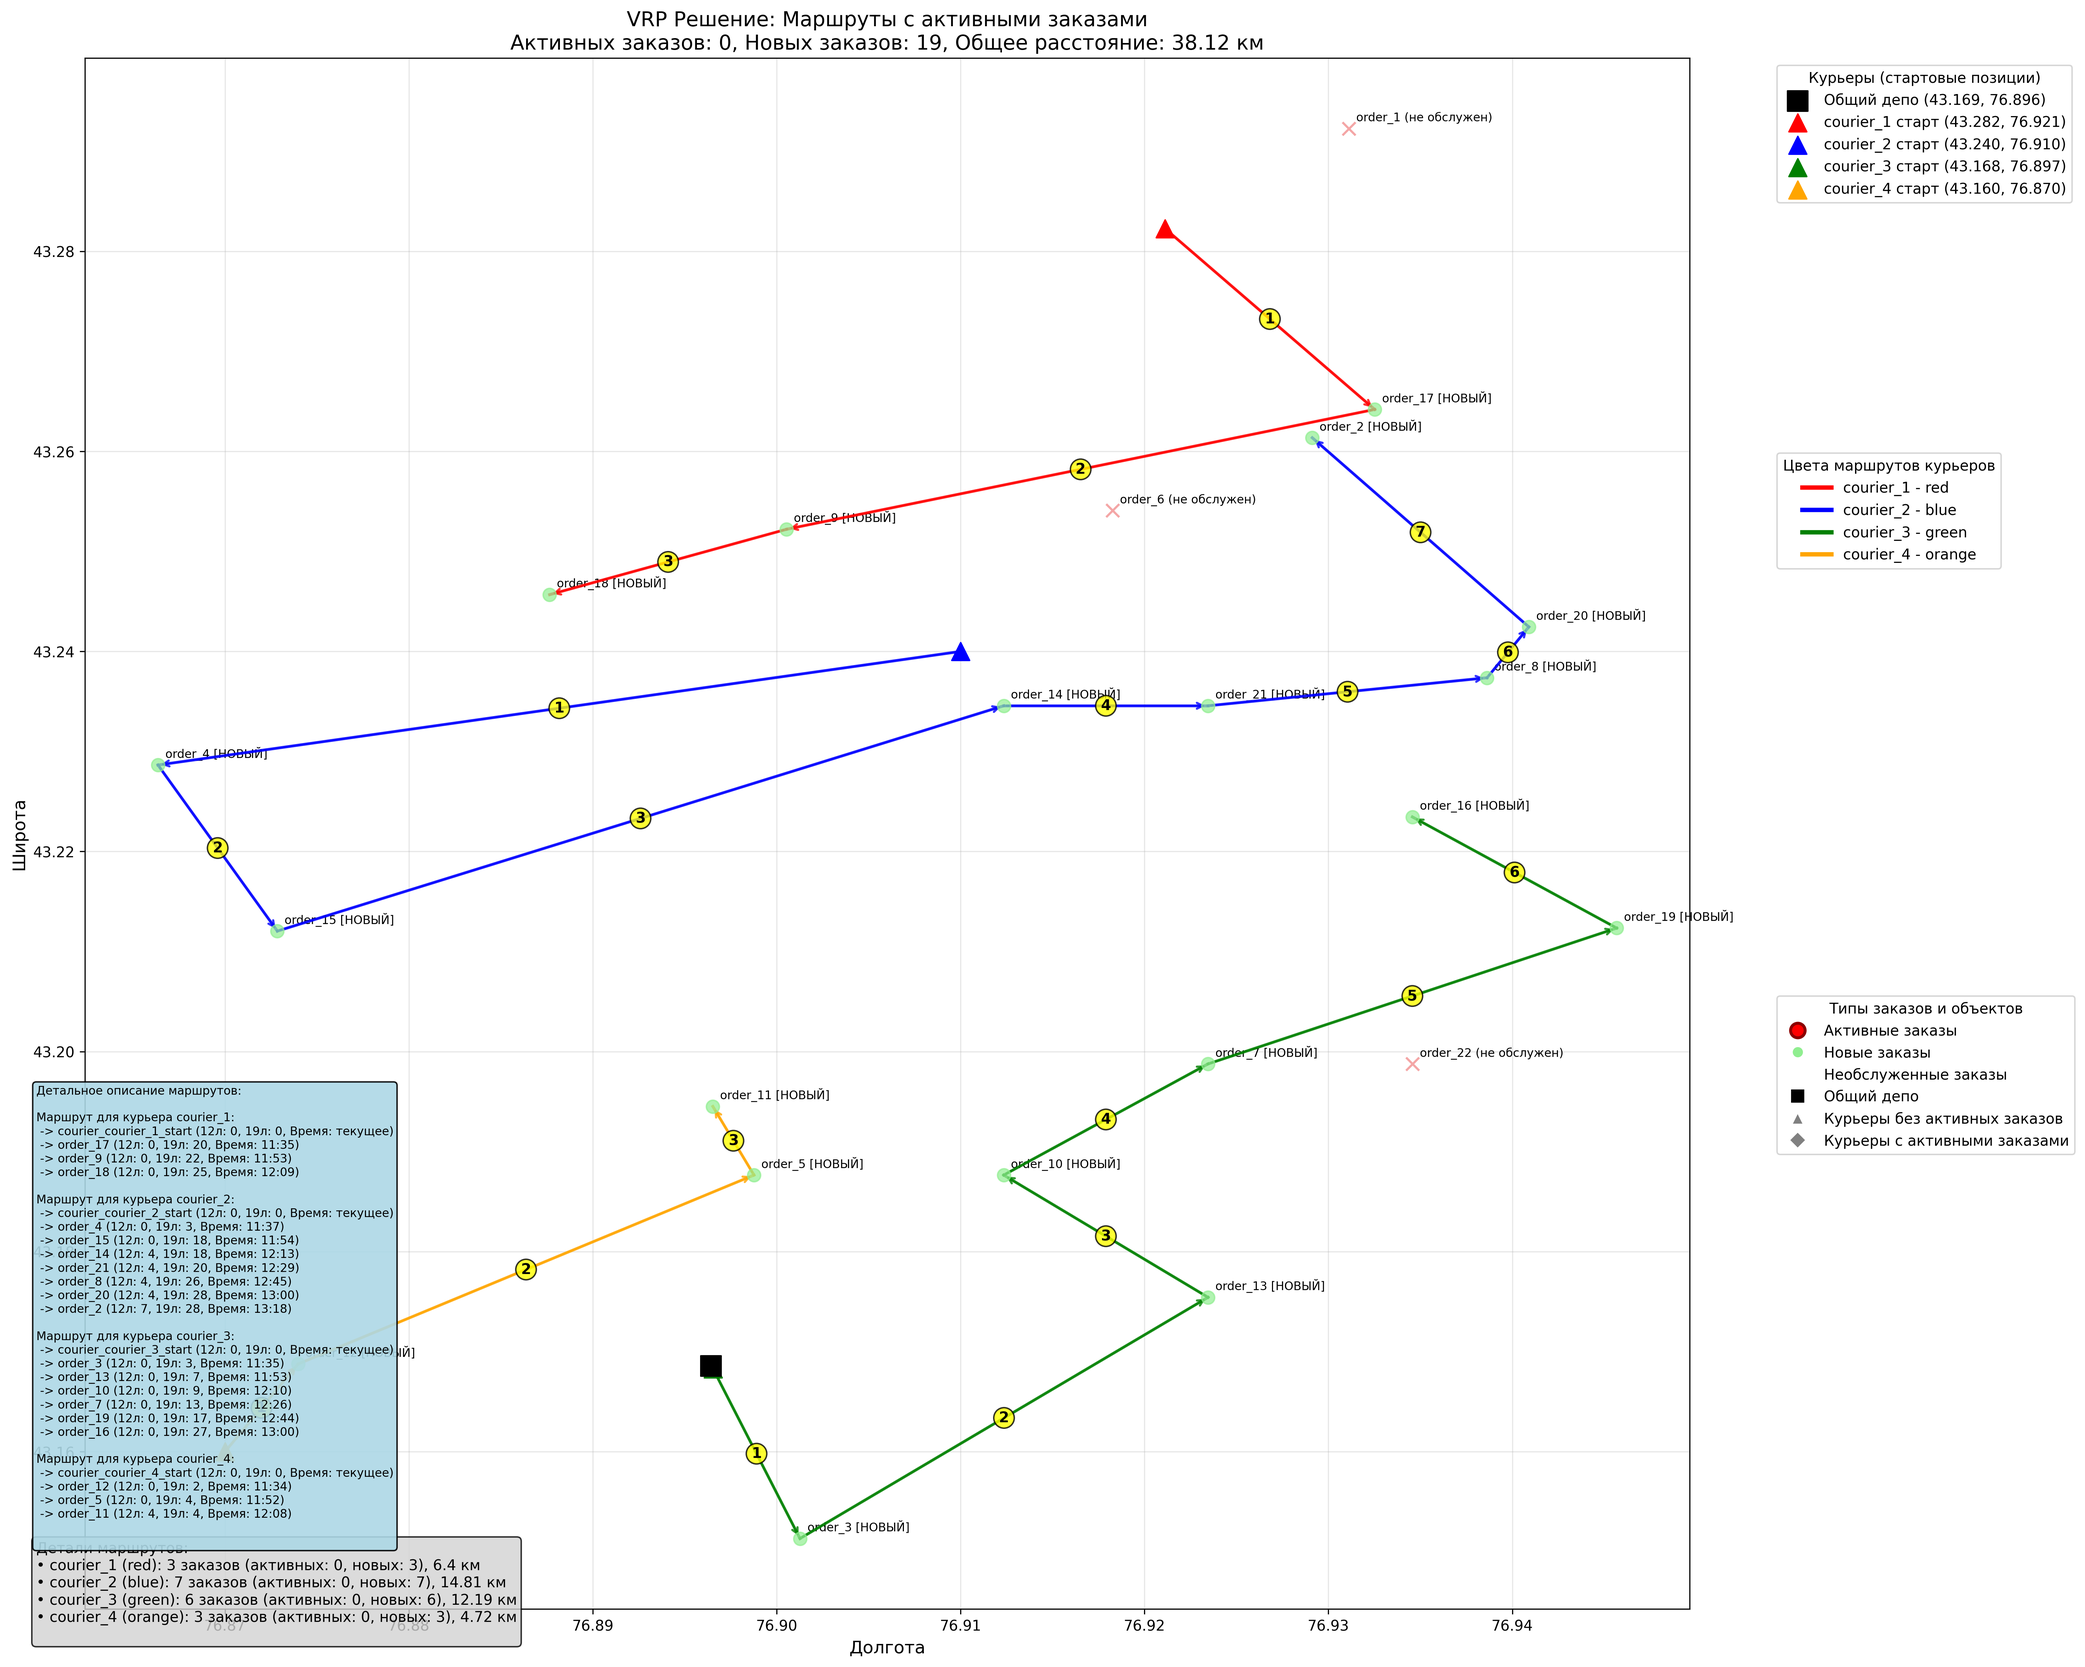
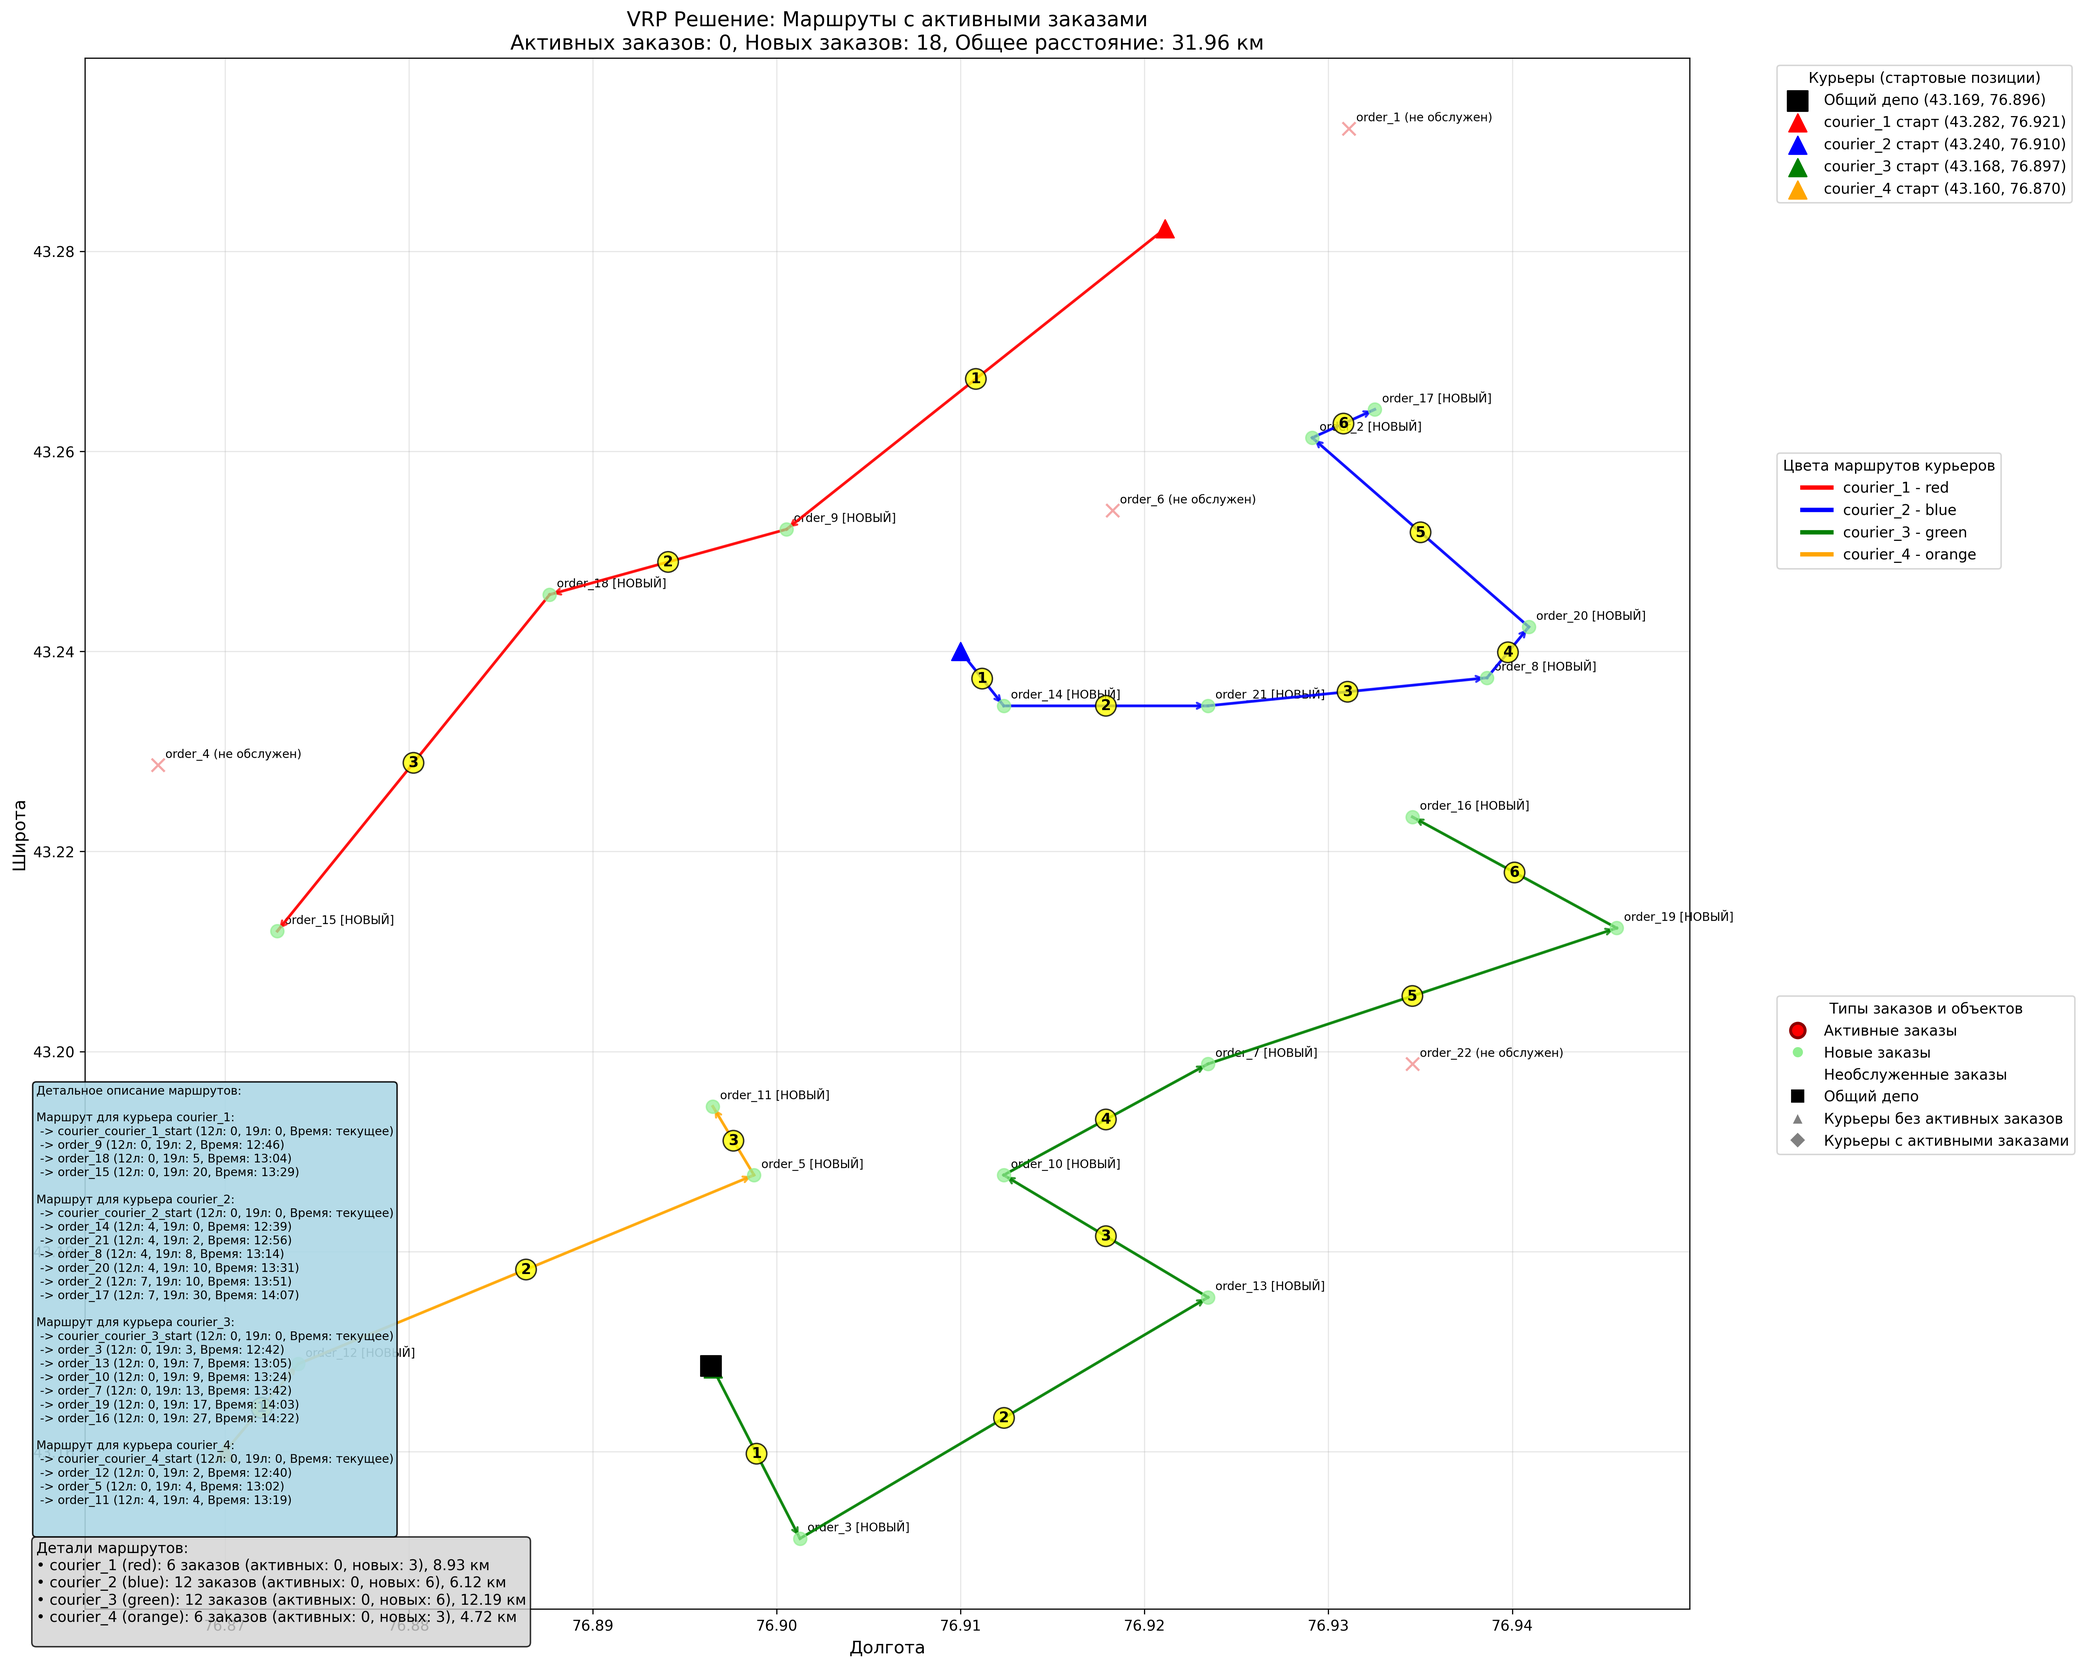
22.07.2025 4

diff --git a/orTools.js b/orTools.js
@@ -500,6 +500,8 @@ export default async function orTools() {
     const today = new Date();
     const todayString = getDateAlmaty(today);
 
+    const allOrders = await Order.find({forAggregator: true, "date.d": todayString, status: {$nin: ["delivered", "cancelled"]}}).populate("client")
+
     const activeOrders = await Order.find({"date.d": todayString, forAggregator: true, status: "awaitingOrder"}).populate("client")
     
     console.log(`📊 Найдено заказов для распределения: ${activeOrders.length}`);
@@ -719,8 +721,21 @@ export default async function orTools() {
         return;
     }
 
+    for (const courier of couriers) {
+        const activeOrder = courier.order;
+        if (activeOrder && activeOrder.orderId) {
+            const alreadyIncluded = orders.find(o => o.id === activeOrder.orderId);
+            if (!alreadyIncluded) {
+                const fullOrder = allOrders.find(o => o.id === activeOrder.orderId);
+                if (fullOrder) {
+                    orders.push(fullOrder);
+                }
+            }
+        }
+    }
+
     try {
-        const visualizeResult = await runPythonVisualize(couriers, orders, result);
+        const visualizeResult = await runPythonVisualize(couriers, allOrders, result);
         console.log("Результат визуализации:", visualizeResult);
     } catch (error) {
         console.error("Ошибка визуализации:", error);

diff --git a/orToolslocal.js b/orToolslocal.js
@@ -601,8 +601,21 @@ export default async function orTools() {
         return;
     }
 
+    for (const courier of couriers) {
+        const activeOrder = courier.order;
+        if (activeOrder && activeOrder.orderId) {
+            const alreadyIncluded = orders.find(o => o.id === activeOrder.orderId);
+            if (!alreadyIncluded) {
+                const fullOrder = allOrders.find(o => o.id === activeOrder.orderId);
+                if (fullOrder) {
+                    orders.push(fullOrder);
+                }
+            }
+        }
+    }
+
     try {
-        const visualizeResult = await runPythonVisualize(couriers, orders, result);
+        const visualizeResult = await runPythonVisualize(couriers, allOrders, result);
         console.log("Результат визуализации:", visualizeResult);
     } catch (error) {
         console.error("Ошибка визуализации:", error);

diff --git a/orTools/test.py b/orTools/test.py
@@ -177,25 +177,24 @@ def solve_vrp_no_depot_time(couriers, orders):
     start_nodes = []  
     order_location_indices = [] 
 
-    # 1. Добавляем начальные точки курьеров
-    for i, courier in enumerate(couriers):
-        if courier['order']:
-            # Если есть активный заказ, начальная точка - это место активного заказа
-            active_order_data = {
-                'id': f'active_order_{courier["id"]}',
-                'lat': courier['order']['lat'],
-                'lon': courier['order']['lon'],
-                'bottles_12': courier['order'].get('bottles_12', 0),
-                'bottles_19': courier['order'].get('bottles_19', 0),
+    # 1. Добавляем стартовые точки курьеров
+    for courier in couriers:
+        # Если у курьера есть активный заказ, используем его координаты
+        if courier.get('order'):
+            active_order = courier['order']
+            all_locations.append({
+                'id': f"active_order_{courier['id']}",
+                'lat': active_order['lat'],
+                'lon': active_order['lon'],
+                'bottles_12': 0,
+                'bottles_19': 0,
                 'is_active_order': True,
                 'courier_id': courier['id']
-            }
-            all_locations.append(active_order_data)
-            start_nodes.append(len(all_locations) - 1)
+            })
         else:
-            # Если активного заказа нет, начальная точка - текущее местоположение курьера
+            # Иначе используем текущие координаты курьера
             all_locations.append({
-                'id': f'courier_{courier["id"]}_start',
+                'id': f"courier_{courier['id']}_start",
                 'lat': courier['lat'],
                 'lon': courier['lon'],
                 'bottles_12': 0,
@@ -203,7 +202,7 @@ def solve_vrp_no_depot_time(couriers, orders):
                 'is_courier_start': True,
                 'courier_id': courier['id']
             })
-            start_nodes.append(len(all_locations) - 1)
+        start_nodes.append(len(all_locations) - 1)
 
     # 2. Добавляем точки новых заказов
     for order in orders:
@@ -362,7 +361,7 @@ def solve_vrp_no_depot_time(couriers, orders):
         routing_enums_pb2.FirstSolutionStrategy.PATH_CHEAPEST_ARC)
     search_parameters.local_search_metaheuristic = (
         routing_enums_pb2.LocalSearchMetaheuristic.GUIDED_LOCAL_SEARCH)
-    search_parameters.time_limit.FromSeconds(60)  # Увеличиваем время поиска
+    search_parameters.time_limit.FromSeconds(30)  # Увеличиваем время поиска
 
     # Решаем задачу
     solution = routing.SolveWithParameters(search_parameters)
@@ -379,6 +378,7 @@ def solve_vrp_no_depot_time(couriers, orders):
             plan_output = f'Маршрут для курьера {couriers[vehicle_id]["id"]}:\n'
             route_distance = 0
             route_orders = []  # Список заказов для этого курьера
+            route_orders_set = set()  # Set для уникальности заказов
 
             while not routing.IsEnd(index):
                 node_index = manager.IndexToNode(index)
@@ -401,7 +401,7 @@ def solve_vrp_no_depot_time(couriers, orders):
                     not all_locations[node_index].get('is_active_order', False)):
                     
                     order_data = next((ord for ord in orders if ord['id'] == all_locations[node_index]['id']), None)
-                    if order_data:
+                    if order_data and order_data['id'] not in visited_nodes_in_solution:
                         assigned_orders.append({
                             'order_id': order_data['id'],
                             'courier_id': couriers[vehicle_id]['id'],
@@ -411,7 +411,10 @@ def solve_vrp_no_depot_time(couriers, orders):
                             'isUrgent': order_data.get('isUrgent', False)
                         })
                         visited_nodes_in_solution.add(order_data['id'])
-                        route_orders.append(order_data['id'])  # Добавляем заказ в маршрут
+                        # Добавляем заказ в маршрут только если его там еще нет
+                        if order_data['id'] not in route_orders_set:
+                            route_orders.append(order_data['id'])
+                            route_orders_set.add(order_data['id'])
 
                 index = solution.Value(routing.NextVar(index))
 
@@ -479,24 +482,53 @@ for order in orders_data:
     else:
         regular_orders.append(order)
 
+print(f"Срочных заказов: {len(urgent_orders)}, обычных заказов: {len(regular_orders)}", file=sys.stderr)
+
 # 2. Копируем курьеров для первого этапа
+import copy
 couriers_for_urgent = copy.deepcopy(couriers_data)
 
 # 3. Сначала решаем только для срочных заказов
-assigned_urgent, _ = solve_vrp_no_depot_time(couriers_for_urgent, urgent_orders)
+if urgent_orders:
+    print(f"Обрабатываем {len(urgent_orders)} срочных заказов...", file=sys.stderr)
+    # Передаем только срочные заказы, а не все заказы
+    assigned_urgent, _ = solve_vrp_no_depot_time(couriers_for_urgent, urgent_orders)
+    print(f"Назначено {len(assigned_urgent)} срочных заказов", file=sys.stderr)
+else:
+    assigned_urgent = []
+    print("Срочных заказов нет", file=sys.stderr)
 
 # 4. Обновляем состояние курьеров после срочных заказов
-# Для каждого курьера уменьшаем вместимость и обновляем координаты, если он что-то развёз
+# Группируем назначения по курьерам
+courier_assignments = {}
 for assignment in assigned_urgent:
-    courier = next((c for c in couriers_data if c['id'] == assignment['courier_id']), None)
-    order = next((o for o in urgent_orders if o['id'] == assignment['order_id']), None)
-    if courier and order:
-        # Уменьшаем вместимость
-        courier['capacity_12'] = max(0, courier.get('capacity_12', 0) - order.get('bottles_12', 0))
-        courier['capacity_19'] = max(0, courier.get('capacity_19', 0) - order.get('bottles_19', 0))
-        # Обновляем координаты курьера на координаты последнего заказа (если нужно)
-        courier['lat'] = order['lat']
-        courier['lon'] = order['lon']
+    courier_id = assignment['courier_id']
+    if courier_id not in courier_assignments:
+        courier_assignments[courier_id] = []
+    courier_assignments[courier_id].append(assignment)
+
+# Обновляем каждого курьера
+for courier_id, assignments in courier_assignments.items():
+    courier = next((c for c in couriers_data if c['id'] == courier_id), None)
+    if courier:
+        # Сортируем назначения по времени прибытия
+        assignments.sort(key=lambda x: x['arrival_time_seconds'])
+        
+        # Уменьшаем вместимость на все назначенные заказы
+        for assignment in assignments:
+            order = next((o for o in urgent_orders if o['id'] == assignment['order_id']), None)
+            if order:
+                courier['capacity_12'] = max(0, courier.get('capacity_12', 0) - order.get('bottles_12', 0))
+                courier['capacity_19'] = max(0, courier.get('capacity_19', 0) - order.get('bottles_19', 0))
+        
+        # Обновляем координаты курьера на координаты последнего заказа
+        if assignments:
+            last_assignment = assignments[-1]
+            last_order = next((o for o in urgent_orders if o['id'] == last_assignment['order_id']), None)
+            if last_order:
+                courier['lat'] = last_order['lat']
+                courier['lon'] = last_order['lon']
+                print(f"Курьер {courier_id} перемещен в ({last_order['lat']:.6f}, {last_order['lon']:.6f})", file=sys.stderr)
 
 # 5. Решаем для обычных заказов с учётом уже назначенных срочных
 assigned_regular, _ = solve_vrp_no_depot_time(couriers_data, regular_orders)
@@ -591,5 +623,8 @@ for vehicle_id in range(len(couriers_data)):
         }
         
         routes_output.append(route_info)
+
+for route in routes_output:
+    route["orders"] = list(dict.fromkeys(route["orders"]))  # удаляет дубликаты и сохраняет порядок
 
 print(json.dumps(routes_output))
